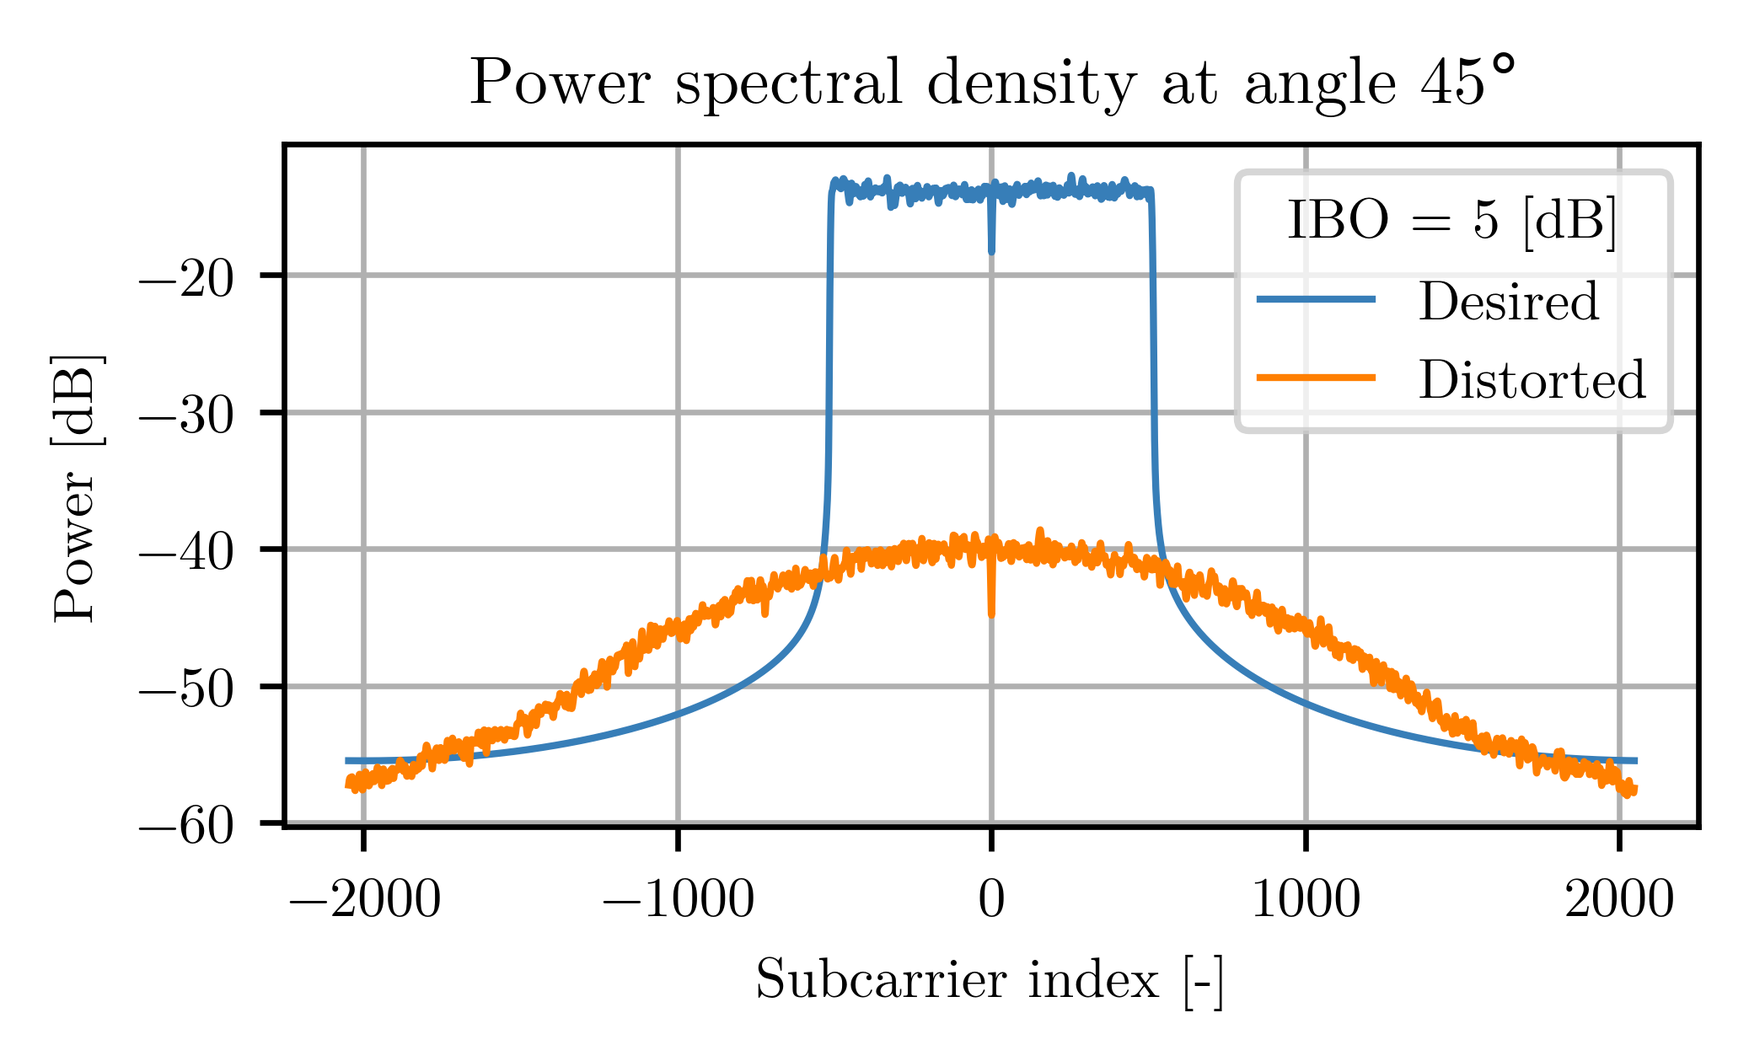
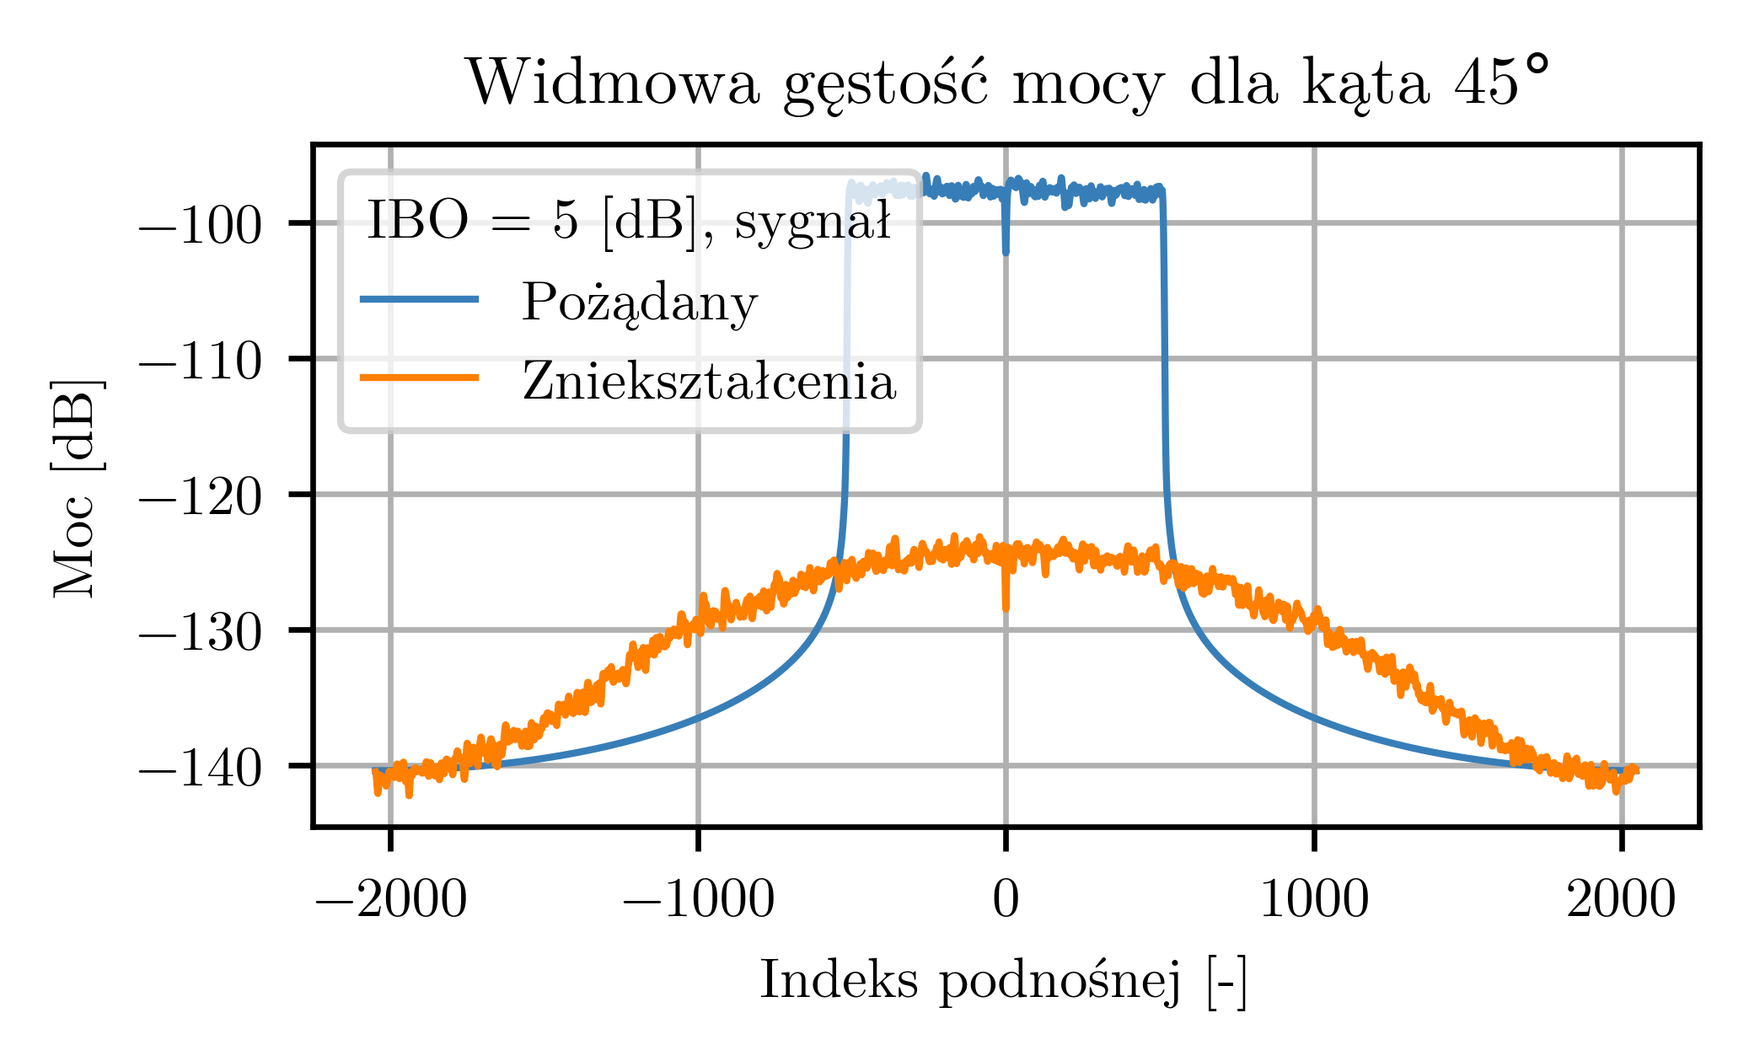
Updated plots to PL version

diff --git a/main_mrt_precoding_miso_los.py b/main_mrt_precoding_miso_los.py
@@ -26,7 +26,7 @@ bit_rng = np.random.default_rng(4321)
 
 ibo_val_db = 5
 
-my_mod = modulation.OfdmQamModem(constel_size=256, n_fft=4096, n_sub_carr=1024, cp_len=128)
+my_mod = modulation.OfdmQamModem(constel_size=64, n_fft=4096, n_sub_carr=1024, cp_len=128)
 my_distortion = distortion.SoftLimiter(ibo_db=ibo_val_db, avg_samp_pow=my_mod.avg_sample_power)
 my_tx = transceiver.Transceiver(modem=copy.deepcopy(my_mod), impairment=copy.deepcopy(my_distortion), center_freq=int(3.5e9),
                                 carrier_spacing=int(15e3))
@@ -38,8 +38,8 @@ my_miso_chan = channel.MisoLosFd()
 
 alpha_val = my_mod.calc_alpha(ibo_db=ibo_val_db)
 print("Alpha value: ", alpha_val)
-print("Expected SDR value: %2.2f [dB]" % (20*np.log10(alpha_val**2/(1-alpha_val**2))))
-
+print("Expected SDR value: %2.2f [dB]" % (10*np.log10(alpha_val**2/(1-alpha_val**2))))
+print("Expected power: ", alpha_val**2*my_mod.avg_sample_power)
 
 # %%
 plot_full_circle = False
@@ -60,7 +60,7 @@ n_snapshots = 10
 # %%
 # plot PSD for chosen point/angle
 point_idx_psd = 78
-n_ant_vec = [1, 2, 4, 8] # 16, 32, 64, 128]
+n_ant_vec = [16, 32, 64, 128]
 
 desired_sc_psd_at_angle_lst = []
 distortion_sc_psd_at_angle_lst = []
@@ -99,7 +99,6 @@ for n_ant in n_ant_vec:
 
             tx_bits = bit_rng.choice((0, 1), my_tx.modem.n_bits_per_ofdm_sym)
             arr_tx_sig_fd, clean_sig_mat_fd = my_array.transmit(in_bits=tx_bits, out_domain_fd=True, return_both=True)
-
             rx_sig_fd = my_miso_chan.propagate(in_sig_mat=arr_tx_sig_fd)
             rx_sig_td = utilities.to_time_domain(rx_sig_fd)
             rx_sc_ofdm_symb_fd = np.concatenate(
@@ -178,8 +177,8 @@ ax1.yaxis.set_major_locator(MaxNLocator(5))
 dist_lines_lst = []
 for idx, n_ant in enumerate(n_ant_vec):
     ax1.plot(radian_vals, desired_sc_psd_at_angle_lst[idx], label=n_ant, linewidth=1.5)
-ax1.set_title("Desired signal PSD at angle [dB]", pad=-15)
-ax1.legend(title="N antennas:", ncol=len(n_ant_vec), loc='lower center', borderaxespad=0)
+ax1.set_title("Moc sygnału pożądanego [dB]", pad=-15)
+ax1.legend(title="Liczba anten:", ncol=len(n_ant_vec), loc='lower center', borderaxespad=0)
 ax1.grid(True)
 plt.savefig("figs/los_desired_signal_beampattern_ibo%d_%dto%dant_sweep.png" % (
 my_tx.impairment.ibo_db, np.min(n_ant_vec), np.max(n_ant_vec)), dpi=600, bbox_inches='tight')
@@ -200,8 +199,8 @@ ax2.yaxis.set_major_locator(MaxNLocator(5))
 dist_lines_lst = []
 for idx, n_ant in enumerate(n_ant_vec):
     ax2.plot(radian_vals, distortion_sc_psd_at_angle_lst[idx], label=n_ant, linewidth=1.5)
-ax2.set_title("Distortion signal PSD at angle [dB]", pad=-15)
-ax2.legend(title="N antennas:", ncol=len(n_ant_vec), loc='lower center', borderaxespad=0)
+ax2.set_title("Moc sygnału zniekształcenia [dB]", pad=-15)
+ax2.legend(title="Liczba anten:", ncol=len(n_ant_vec), loc='lower center', borderaxespad=0)
 ax2.grid(True)
 plt.savefig("figs/los_distortion_signal_beampattern_ibo%d_%dto%dant_sweep.png" % (
 my_tx.impairment.ibo_db, np.min(n_ant_vec), np.max(n_ant_vec)), dpi=600, bbox_inches='tight')
@@ -222,10 +221,10 @@ ax3.yaxis.set_major_locator(MaxNLocator(7))
 dist_lines_lst = []
 # select index to plot
 sel_idx = 3
-ax3.plot(radian_vals, desired_sc_psd_at_angle_lst[sel_idx], label="Desired", linewidth=1.5)
-ax3.plot(radian_vals, distortion_sc_psd_at_angle_lst[sel_idx], label="Distortion", linewidth=1.5)
-ax3.set_title("Power spectral density at angle [dB]", pad=-15)
-ax3.legend(title="N antennas = %d, signals:" % n_ant_vec[sel_idx], ncol=2, loc='lower center', borderaxespad=0)
+ax3.plot(radian_vals, desired_sc_psd_at_angle_lst[sel_idx], label="Pożądany", linewidth=1.5)
+ax3.plot(radian_vals, distortion_sc_psd_at_angle_lst[sel_idx], label="Zniekształcenia", linewidth=1.5)
+ax3.set_title("Moc sygnału [dB]", pad=-15)
+ax3.legend(title="Liczba anten = %d, sygnał:" % n_ant_vec[sel_idx], ncol=2, loc='lower center', borderaxespad=0)
 ax3.grid(True)
 plt.tight_layout()
 
@@ -246,8 +245,8 @@ else:
 
 for idx, n_ant in enumerate(n_ant_vec):
     ax4.plot(radian_vals, desired_sc_psd_at_angle_lst[idx] - distortion_sc_psd_at_angle_lst[idx], label=n_ant, linewidth=1.5)
-ax4.set_title("Signal to distortion ratio at angle [dB]", pad=-15)
-ax4.legend(title="N antennas:", ncol=len(n_ant_vec), loc='lower center', borderaxespad=0)
+ax4.set_title("Stosunek mocy sygnału pożądanego do zniekształcenia [dB]", pad=-15)
+ax4.legend(title="Liczba anten:", ncol=len(n_ant_vec), loc='lower center', borderaxespad=0)
 ax4.grid(True)
 plt.tight_layout()
 plt.savefig("figs/los_sdr_at_angle_polar_ibo%d_%dto%dant_sweep.png" % (
@@ -259,15 +258,15 @@ plt.show()
 fig5, ax5 = plt.subplots(1, 1)
 sorted_clean_rx_at_point_freq_arr, sorted_clean_psd_at_point_arr = zip(
     *sorted(zip(rx_clean_at_point_freq_arr, rx_clean_at_point_psd)))
-ax5.plot(np.array(sorted_clean_rx_at_point_freq_arr), to_db(np.array(sorted_clean_psd_at_point_arr)), label="Desired", linewidth=1.0)
+ax5.plot(np.array(sorted_clean_rx_at_point_freq_arr), to_db(np.array(sorted_clean_psd_at_point_arr)), label="Pożądany", linewidth=1.0)
 sorted_dist_rx_at_point_freq_arr, sorted_dist_psd_at_point_arr = zip(
     *sorted(zip(rx_dist_at_point_freq_arr, rx_dist_at_point_psd)))
-ax5.plot(np.array(sorted_dist_rx_at_point_freq_arr), to_db(np.array(sorted_dist_psd_at_point_arr)), label="Distorted", linewidth=1.0)
+ax5.plot(np.array(sorted_dist_rx_at_point_freq_arr), to_db(np.array(sorted_dist_psd_at_point_arr)), label="Zniekształcenia", linewidth=1.0)
 
-ax5.set_title("Power spectral density at angle %d$\degree$" % point_idx_psd)
-ax5.set_xlabel("Subcarrier index [-]")
-ax5.set_ylabel("Power [dB]")
-ax5.legend(title="IBO = %d [dB]" % my_tx.impairment.ibo_db)
+ax5.set_title("Widmowa gęstość mocy dla kąta %d$\degree$" % point_idx_psd)
+ax5.set_xlabel("Indeks podnośnej [-]")
+ax5.set_ylabel("Moc [dB]")
+ax5.legend(title="IBO = %d [dB], sygnał:" % my_tx.impairment.ibo_db)
 ax5.grid()
 plt.tight_layout()
 plt.savefig("figs/los_psd_at_angle_%ddeg_ibo%d_ant%d.png" % (point_idx_psd, my_tx.impairment.ibo_db, np.max(n_ant_vec)),
@@ -279,15 +278,15 @@ plt.show()
 fig6, ax6 = plt.subplots(1, 1)
 sorted_clean_rx_at_max_point_freq_arr, sorted_clean_psd_at_max_point_arr = zip(
     *sorted(zip(rx_clean_at_max_point_freq_arr, rx_clean_at_max_point_psd)))
-ax6.plot(np.array(sorted_clean_rx_at_max_point_freq_arr), to_db(np.array(sorted_clean_psd_at_max_point_arr)), label="Desired", linewidth=1.0)
+ax6.plot(np.array(sorted_clean_rx_at_max_point_freq_arr), to_db(np.array(sorted_clean_psd_at_max_point_arr)), label="Pożądany", linewidth=1.0)
 sorted_dist_rx_at_max_point_freq_arr, sorted_dist_psd_at_max_point_arr = zip(
     *sorted(zip(rx_dist_at_max_point_freq_arr, rx_dist_at_max_point_psd)))
-ax6.plot(np.array(sorted_dist_rx_at_max_point_freq_arr), to_db(np.array(sorted_dist_psd_at_max_point_arr)), label="Distorted", linewidth=1.0)
+ax6.plot(np.array(sorted_dist_rx_at_max_point_freq_arr), to_db(np.array(sorted_dist_psd_at_max_point_arr)), label="Zniekształcenia", linewidth=1.0)
 
-ax6.set_title("Power spectral density at angle %d$\degree$" % max_point_idx)
-ax6.set_xlabel("Subcarrier index [-]")
-ax6.set_ylabel("Power [dB]")
-ax6.legend(title="IBO = %d [dB]" % my_tx.impairment.ibo_db)
+ax6.set_title("Widmowa gęstość mocy dla kąta %d$\degree$" % max_point_idx)
+ax6.set_xlabel("Indeks podnośnej [-]")
+ax6.set_ylabel("Moc [dB]")
+ax6.legend(title="IBO = %d [dB], sygnał:" % my_tx.impairment.ibo_db)
 ax6.grid()
 plt.tight_layout()
 plt.savefig("figs/los_psd_at_angle_%ddeg_ibo%d_ant%d.png" % (max_point_idx, my_tx.impairment.ibo_db, np.max(n_ant_vec)),

diff --git a/main_mrt_precoding_miso_rayleigh.py b/main_mrt_precoding_miso_rayleigh.py
@@ -179,8 +179,8 @@ ax1.yaxis.set_major_locator(MaxNLocator(5))
 dist_lines_lst = []
 for idx, n_ant in enumerate(n_ant_vec):
     ax1.plot(radian_vals, desired_sc_psd_at_angle_lst[idx], label=n_ant, linewidth=1.5)
-ax1.set_title("Desired signal PSD at angle [dB]", pad=-15)
-ax1.legend(title="N antennas:", ncol=len(n_ant_vec), loc='lower center', borderaxespad=0)
+ax1.set_title("Moc sygnału pożądanego [dB]", pad=-15)
+ax1.legend(title="Liczba anten:", ncol=len(n_ant_vec), loc='lower center', borderaxespad=0)
 ax1.grid(True)
 plt.savefig("figs/rayleigh_desired_signal_beampattern_ibo%d_%dto%dant_sweep.png" % (
     my_tx.impairment.ibo_db, np.min(n_ant_vec), np.max(n_ant_vec)), dpi=600, bbox_inches='tight')
@@ -202,8 +202,8 @@ ax2.yaxis.set_major_locator(MaxNLocator(5))
 dist_lines_lst = []
 for idx, n_ant in enumerate(n_ant_vec):
     ax2.plot(radian_vals, distortion_sc_psd_at_angle_lst[idx], label=n_ant, linewidth=1.5)
-ax2.set_title("Distortion signal PSD at angle [dB]", pad=-15)
-ax2.legend(title="N antennas:", ncol=len(n_ant_vec), loc='lower center', borderaxespad=0)
+ax2.set_title("Moc sygnału zniekształcenia [dB]", pad=-15)
+ax2.legend(title="Liczba anten:", ncol=len(n_ant_vec), loc='lower center', borderaxespad=0)
 ax2.grid(True)
 plt.savefig("figs/rayleigh_distortion_signal_beampattern_ibo%d_%dto%dant_sweep.png" % (
     my_tx.impairment.ibo_db, np.min(n_ant_vec), np.max(n_ant_vec)), dpi=600, bbox_inches='tight')
@@ -225,10 +225,10 @@ ax3.yaxis.set_major_locator(MaxNLocator(5))
 dist_lines_lst = []
 # select index to plot
 sel_idx = -1
-ax3.plot(radian_vals, desired_sc_psd_at_angle_lst[sel_idx], label="Desired", linewidth=1.5)
-ax3.plot(radian_vals, distortion_sc_psd_at_angle_lst[sel_idx], label="Distortion", linewidth=1.5)
-ax3.set_title("Power spectral density at angle [dB]", pad=-15)
-ax3.legend(title="N antennas = %d, signals:" % n_ant_vec[sel_idx], ncol=2, loc='lower center', borderaxespad=0)
+ax3.plot(radian_vals, desired_sc_psd_at_angle_lst[sel_idx], label="Pożądany", linewidth=1.5)
+ax3.plot(radian_vals, distortion_sc_psd_at_angle_lst[sel_idx], label="Zniekształcenia", linewidth=1.5)
+ax3.set_title("Moc sygnału [dB]", pad=-15)
+ax3.legend(title="Liczba anten = %d, sygnał:" % n_ant_vec[sel_idx], ncol=2, loc='lower center', borderaxespad=0)
 ax3.grid(True)
 plt.savefig(
     "figs/rayleigh_desired_vs_distortion_beampattern_ibo%d_%dant.png" % (my_tx.impairment.ibo_db, np.max(n_ant_vec)),
@@ -251,8 +251,8 @@ ax4.yaxis.set_major_locator(MaxNLocator(5))
 for idx, n_ant in enumerate(n_ant_vec):
     ax4.plot(radian_vals, desired_sc_psd_at_angle_lst[idx] - distortion_sc_psd_at_angle_lst[idx], label=n_ant,
              linewidth=1.5)
-ax4.set_title("Signal to distortion ratio at angle [dB]", pad=-15)
-ax4.legend(title="N antennas:", ncol=len(n_ant_vec), loc='lower center', borderaxespad=0)
+ax4.set_title("Stosunek mocy sygnału pożądanego do zniekształcenia [dB]", pad=-15)
+ax4.legend(title="Liczba anten:", ncol=len(n_ant_vec), loc='lower center', borderaxespad=0)
 ax4.grid(True)
 plt.savefig("figs/rayleigh_sdr_at_angle_polar_ibo%d_%dto%dant_sweep.png" % (
     my_tx.impairment.ibo_db, np.min(n_ant_vec), np.max(n_ant_vec)), dpi=600, bbox_inches='tight')
@@ -268,11 +268,11 @@ for idx, n_ant in enumerate(n_ant_vec):
              linewidth=1.5)
 
 ax5.set_xlim([40, 50])
-ax5.set_xlabel("Angle [$\degree$]")
-ax5.set_ylabel("Signal to distortion ratio [dB]")
+ax5.set_xlabel("Kąt [$\degree$]")
+ax5.set_ylabel("SDR [dB]")
 
-ax5.set_title("Signal to distortion ratio at angle", pad=-15)
-ax5.legend(title="N antennas:")
+ax5.set_title("Stosunek mocy sygnału pożądanego do zniekształcenia [dB]", pad=-15)
+ax5.legend(title="Liczba anten:")
 ax5.grid(True)
 plt.savefig("figs/rayleigh_sdr_at_angle_cartesian_ibo%d_%dto%dant_sweep.png" % (
     my_tx.impairment.ibo_db, np.min(n_ant_vec), np.max(n_ant_vec)), dpi=600, bbox_inches='tight')
@@ -283,15 +283,15 @@ plt.show()
 fig6, ax6 = plt.subplots(1, 1)
 sorted_clean_rx_at_point_freq_arr, sorted_clean_psd_at_point_arr = zip(
     *sorted(zip(rx_clean_at_point_freq_arr, rx_clean_at_point_psd)))
-ax6.plot(np.array(sorted_clean_rx_at_point_freq_arr), to_db(np.array(sorted_clean_psd_at_point_arr)), label="Desired")
+ax6.plot(np.array(sorted_clean_rx_at_point_freq_arr), to_db(np.array(sorted_clean_psd_at_point_arr)), label="Pożądany")
 sorted_dist_rx_at_point_freq_arr, sorted_dist_psd_at_point_arr = zip(
     *sorted(zip(rx_dist_at_point_freq_arr, rx_dist_at_point_psd)))
-ax6.plot(np.array(sorted_dist_rx_at_point_freq_arr), to_db(np.array(sorted_dist_psd_at_point_arr)), label="Distorted")
+ax6.plot(np.array(sorted_dist_rx_at_point_freq_arr), to_db(np.array(sorted_dist_psd_at_point_arr)), label="Zniekształcenia")
 
-ax6.set_title("Power spectral density at angle %d$\degree$" % point_idx_psd)
-ax6.set_xlabel("Subcarrier index [-]")
-ax6.set_ylabel("Power [dB]")
-ax6.legend(title="IBO = %d [dB]" % my_tx.impairment.ibo_db)
+ax6.set_title("Widmowa gęstość mocy dla kąta %d$\degree$" % point_idx_psd)
+ax6.set_xlabel("Indeks podnośnej [-]")
+ax6.set_ylabel("Moc [dB]")
+ax6.legend(title="IBO = %d [dB], sygnał:" % my_tx.impairment.ibo_db)
 ax6.grid()
 plt.tight_layout()
 plt.savefig(
@@ -306,16 +306,16 @@ fig7, ax7 = plt.subplots(1, 1)
 sorted_clean_rx_at_max_point_freq_arr, sorted_clean_psd_at_max_point_arr = zip(
     *sorted(zip(rx_clean_at_max_point_freq_arr, rx_clean_at_max_point_psd)))
 ax7.plot(np.array(sorted_clean_rx_at_max_point_freq_arr), to_db(np.array(sorted_clean_psd_at_max_point_arr)),
-         label="Desired", linewidth=1.5)
+         label="Pożądany", linewidth=1.5)
 sorted_dist_rx_at_max_point_freq_arr, sorted_dist_psd_at_max_point_arr = zip(
     *sorted(zip(rx_dist_at_max_point_freq_arr, rx_dist_at_max_point_psd)))
 ax7.plot(np.array(sorted_dist_rx_at_max_point_freq_arr), to_db(np.array(sorted_dist_psd_at_max_point_arr)),
-         label="Distorted", linewidth=1.5)
+         label="Zniekształcenia", linewidth=1.5)
 
-ax7.set_title("Power spectral density at angle %d$\degree$" % precoding_point_idx)
-ax7.set_xlabel("Subcarrier index [-]")
-ax7.set_ylabel("Power [dB]")
-ax7.legend(title="IBO = %d [dB]" % my_tx.impairment.ibo_db)
+ax7.set_title("Widmowa gęstość mocy dla kąta %d$\degree$" % precoding_point_idx)
+ax7.set_xlabel("Indeks podnośnej [-]")
+ax7.set_ylabel("Moc [dB]")
+ax7.legend(title="IBO = %d [dB], sygnał:" % my_tx.impairment.ibo_db)
 ax7.grid()
 plt.tight_layout()
 plt.savefig("figs/rayleigh_psd_at_angle_%ddeg_ibo%d_ant%d.png" % (

diff --git a/main_mrt_precoding_miso_2path.py b/main_mrt_precoding_miso_2path.py
@@ -56,7 +56,7 @@ n_snapshots = 10
 # %%
 # plot PSD for chosen point/angle
 point_idx_psd = 78
-n_ant_vec = [1, 2, 4, 8] # 16, 32, 64, 128]
+n_ant_vec = [16, 32, 64, 128]
 
 desired_sc_psd_at_angle_lst = []
 distortion_sc_psd_at_angle_lst = []
@@ -176,8 +176,8 @@ ax1.yaxis.set_major_locator(MaxNLocator(5))
 dist_lines_lst = []
 for idx, n_ant in enumerate(n_ant_vec):
     ax1.plot(radian_vals, desired_sc_psd_at_angle_lst[idx], label=n_ant, linewidth=1.5)
-ax1.set_title("Desired signal PSD at angle [dB]", pad=-15)
-ax1.legend(title="N antennas:", ncol=len(n_ant_vec), loc='lower center', borderaxespad=0)
+ax1.set_title("Moc sygnału pożądanego [dB]", pad=-15)
+ax1.legend(title="Liczba anten:", ncol=len(n_ant_vec), loc='lower center', borderaxespad=0)
 ax1.grid(True)
 # ax1.xaxis.set_major_locator(MaxNLocator(6))
 plt.savefig("figs/2path_desired_signal_beampattern_ibo%d_%dto%dant_sweep.png" % (
@@ -200,8 +200,8 @@ ax2.yaxis.set_major_locator(MaxNLocator(5))
 dist_lines_lst = []
 for idx, n_ant in enumerate(n_ant_vec):
     ax2.plot(radian_vals, distortion_sc_psd_at_angle_lst[idx], label=n_ant, linewidth=1.5)
-ax2.set_title("Distortion signal PSD at angle [dB]", pad=-15)
-ax2.legend(title="N antennas:", ncol=len(n_ant_vec), loc='lower center', borderaxespad=0)
+ax2.set_title("Moc sygnału zniekształcenia [dB]", pad=-15)
+ax2.legend(title="Liczba anten:", ncol=len(n_ant_vec), loc='lower center', borderaxespad=0)
 ax2.grid(True)
 plt.savefig("figs/2path_distortion_signal_beampattern_ibo%d_%dto%dant_sweep.png" % (
     my_tx.impairment.ibo_db, np.min(n_ant_vec), np.max(n_ant_vec)), dpi=600, bbox_inches='tight')
@@ -222,10 +222,11 @@ else:
 dist_lines_lst = []
 # select index to plot
 sel_idx = 3
-ax3.plot(radian_vals, desired_sc_psd_at_angle_lst[sel_idx], label="Desired", linewidth=1.5)
-ax3.plot(radian_vals, distortion_sc_psd_at_angle_lst[sel_idx], label="Distortion", linewidth=1.5)
-ax3.set_title("Power spectral density at angle [dB]", pad=-15)
-ax3.legend(title="N antennas = %d, signals:" % n_ant_vec[sel_idx], ncol=2, loc='lower center', borderaxespad=0)
+ax3.plot(radian_vals, desired_sc_psd_at_angle_lst[sel_idx], label="Pożądany", linewidth=1.5)
+ax3.plot(radian_vals, distortion_sc_psd_at_angle_lst[sel_idx], label="Zniekształcenia", linewidth=1.5)
+ax3.yaxis.set_major_locator(MaxNLocator(4))
+ax3.set_title("Moc sygnału [dB]", pad=-15)
+ax3.legend(title="Liczba anten = %d, sygnał:" % n_ant_vec[sel_idx], ncol=2, loc='lower center', borderaxespad=0)
 ax3.grid(True)
 plt.savefig("figs/2path_desired_vs_distortion_beampattern_ibo%d_%dant.png" % (my_tx.impairment.ibo_db, np.max(n_ant_vec)),
             dpi=600, bbox_inches='tight')
@@ -245,8 +246,8 @@ else:
 
 for idx, n_ant in enumerate(n_ant_vec):
     ax4.plot(radian_vals, desired_sc_psd_at_angle_lst[idx] - distortion_sc_psd_at_angle_lst[idx], label=n_ant, linewidth=1.5)
-ax4.set_title("Signal to distortion ratio at angle [dB]", pad=-15)
-ax4.legend(title="N antennas:", ncol=len(n_ant_vec), loc='lower center', borderaxespad=0)
+ax4.set_title("Stosunek mocy sygnału pożądanego do zniekształcenia [dB]", pad=-15)
+ax4.legend(title="Liczba anten:", ncol=len(n_ant_vec), loc='lower center', borderaxespad=0)
 ax4.grid(True)
 plt.savefig("figs/2path_sdr_at_angle_polar_ibo%d_%dto%dant_sweep.png" % (
     my_tx.impairment.ibo_db, np.min(n_ant_vec), np.max(n_ant_vec)), dpi=600, bbox_inches='tight')
@@ -257,15 +258,15 @@ plt.show()
 fig5, ax5 = plt.subplots(1, 1)
 sorted_clean_rx_at_point_freq_arr, sorted_clean_psd_at_point_arr = zip(
     *sorted(zip(rx_clean_at_point_freq_arr, rx_clean_at_point_psd)))
-ax5.plot(np.array(sorted_clean_rx_at_point_freq_arr), to_db(np.array(sorted_clean_psd_at_point_arr)), label="Desired")
+ax5.plot(np.array(sorted_clean_rx_at_point_freq_arr), to_db(np.array(sorted_clean_psd_at_point_arr)), label="Pożądany")
 sorted_dist_rx_at_point_freq_arr, sorted_dist_psd_at_point_arr = zip(
     *sorted(zip(rx_dist_at_point_freq_arr, rx_dist_at_point_psd)))
-ax5.plot(np.array(sorted_dist_rx_at_point_freq_arr), to_db(np.array(sorted_dist_psd_at_point_arr)), label="Distorted")
+ax5.plot(np.array(sorted_dist_rx_at_point_freq_arr), to_db(np.array(sorted_dist_psd_at_point_arr)), label="Zniekształcenia")
 
-ax5.set_title("Power spectral density at angle %d$\degree$" % point_idx_psd)
-ax5.set_xlabel("Subcarrier index [-]")
-ax5.set_ylabel("Power [dB]")
-ax5.legend(title="IBO = %d [dB]" % my_tx.impairment.ibo_db)
+ax5.set_title("Widmowa gęstość mocy dla kąta %d$\degree$" % point_idx_psd)
+ax5.set_xlabel("Indeks podnośnej [-]")
+ax5.set_ylabel("Moc [dB]")
+ax5.legend(title="IBO = %d [dB], sygnał:" % my_tx.impairment.ibo_db)
 ax5.grid()
 plt.tight_layout()
 plt.savefig("figs/2path_psd_at_angle_%ddeg_ibo%d_ant%d.png" % (point_idx_psd, my_tx.impairment.ibo_db, np.max(n_ant_vec)),
@@ -279,15 +280,15 @@ plt.show()
 fig6, ax6 = plt.subplots(1, 1)
 sorted_clean_rx_at_max_point_freq_arr, sorted_clean_psd_at_max_point_arr = zip(
     *sorted(zip(rx_clean_at_max_point_freq_arr, rx_clean_at_max_point_psd)))
-ax6.plot(np.array(sorted_clean_rx_at_max_point_freq_arr), to_db(np.array(sorted_clean_psd_at_max_point_arr)), label="Desired", linewidth=1.0)
+ax6.plot(np.array(sorted_clean_rx_at_max_point_freq_arr), to_db(np.array(sorted_clean_psd_at_max_point_arr)), label="Pożądany", linewidth=1.0)
 sorted_dist_rx_at_max_point_freq_arr, sorted_dist_psd_at_max_point_arr = zip(
     *sorted(zip(rx_dist_at_max_point_freq_arr, rx_dist_at_max_point_psd)))
-ax6.plot(np.array(sorted_dist_rx_at_max_point_freq_arr), to_db(np.array(sorted_dist_psd_at_max_point_arr)), label="Distorted", linewidth=1.0)
+ax6.plot(np.array(sorted_dist_rx_at_max_point_freq_arr), to_db(np.array(sorted_dist_psd_at_max_point_arr)), label="Zniekształcenia", linewidth=1.0)
 
-ax6.set_title("Power spectral density at angle %d$\degree$" % max_point_idx)
-ax6.set_xlabel("Subcarrier index [-]")
-ax6.set_ylabel("Power [dB]")
-ax6.legend(title="IBO = %d [dB]" % my_tx.impairment.ibo_db)
+ax6.set_title("Widmowa gęstość mocy dla kąta %d$\degree$" % max_point_idx)
+ax6.set_xlabel("Indeks podnośnej [-]")
+ax6.set_ylabel("Moc [dB]")
+ax6.legend(title="IBO = %d [dB], sygnał:" % my_tx.impairment.ibo_db)
 ax6.grid()
 plt.tight_layout()
 plt.savefig("figs/2path_psd_at_angle_%ddeg_ibo%d_ant%d.png" % (max_point_idx, my_tx.impairment.ibo_db, np.max(n_ant_vec)),

diff --git a/distortion.py b/distortion.py
@@ -25,22 +25,22 @@ class SoftLimiter:
         self.avg_samp_pow = avg_samp_pow
         self.sat_pow = np.power(10, self.ibo_db / 10) * avg_samp_pow
 
-    def plot_characteristics(self, in_ampl_min=-10, in_ampl_max=10, step=0.1):
+    def plot_characteristics(self, in_ampl_min=0, in_ampl_max=6.33, step=0.01):
         in_sig_ampl = np.arange(in_ampl_min, in_ampl_max + step, step)
         out_sig_ampl = self.process(in_sig_ampl)
 
         fig, ax = plt.subplots(1, 1)
-        ax.plot(in_sig_ampl, out_sig_ampl, label=self.ibo_db)
-        ax.set_title("Soft limiter transfer characteristic")
-        ax.set_xlabel("Input signal amplitude [V]")
-        ax.set_ylabel("Output signal amplitude [V]")
+        ax.plot(in_sig_ampl**2, out_sig_ampl**2, label=self.ibo_db)
+        ax.set_title("Charakterystyka przejściowa modelu wzmacniacza")
+        ax.set_xlabel("Moc sygnału wejściowego [dBm]")
+        ax.set_ylabel("Moc sygnału wyjściowego [dBm]")
         ax.legend(title="IBO [dB]")
         props = dict(boxstyle="round", fc="w", ec="0.5", alpha=0.9)
-        ax.text(0.46, 0.05, ("Average sample power = %2.1f" % self.avg_samp_pow), transform=ax.transAxes,
+        ax.text(0.38, 0.05, ("Średnia moc sygnału = %2.1f [dBm]" % self.avg_samp_pow), transform=ax.transAxes,
                        fontsize=8, verticalalignment='bottom', bbox=props)
         ax.grid()
         plt.tight_layout()
-        plt.savefig("figs/soft_lim_tf_ibo%d.png" % self.ibo_db, dpi=600, bbox_inches='tight')
+        plt.savefig("figs/soft_lim_tf_ibo%d.pdf" % self.ibo_db, dpi=600, bbox_inches='tight')
         plt.show()
 
     def process(self, in_sig):

diff --git a/main_expected_sdr_vs_ibo.py b/main_expected_sdr_vs_ibo.py
@@ -31,7 +31,7 @@ fig1, ax1 = plt.subplots(1, 1)
 
 # plot analytical
 ax1.plot(ibo_vec, sdr_vec, label="Analytical SDR")
-ax1.set_title("Expected signal to distortion ratio (SDR)")
+ax1.set_title("Analitycznie wyznaczony stosunek\nsygnału do zniekształcenia (SDR)")
 ax1.set_xlabel("IBO [dB]")
 ax1.set_ylabel("SDR [dB]")
 ax1.grid()
